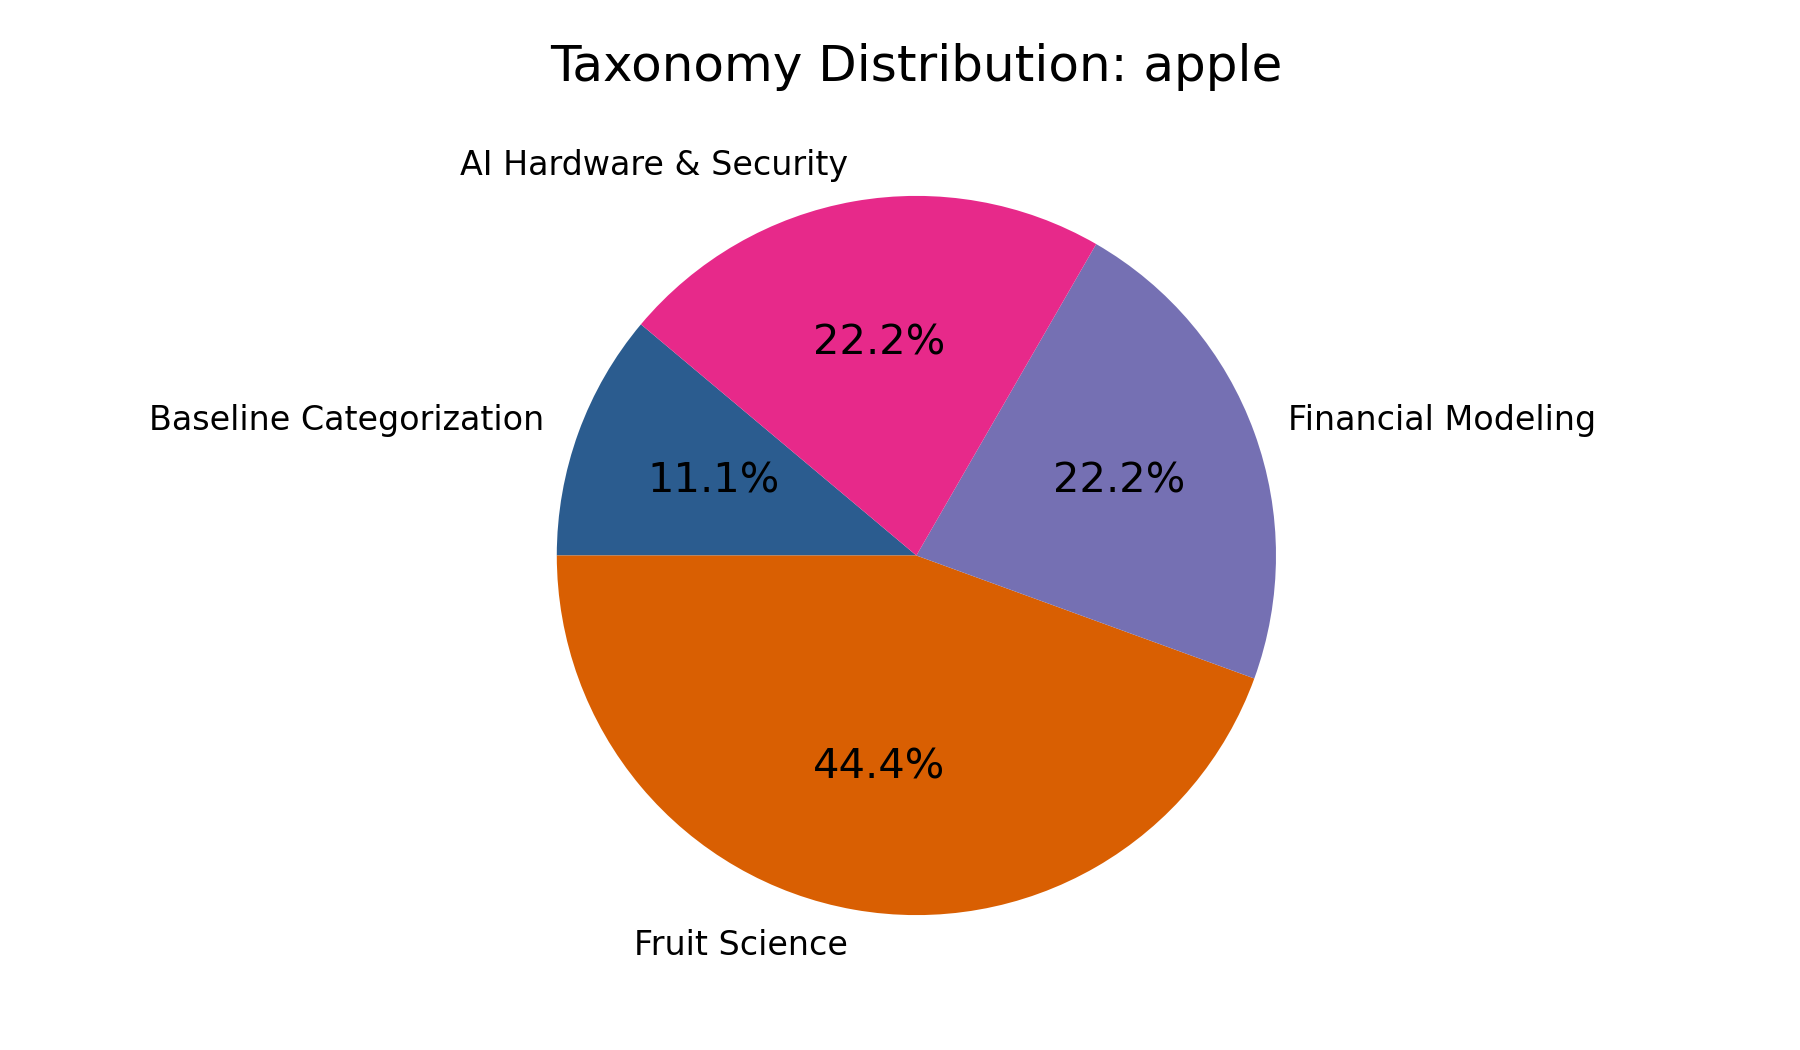
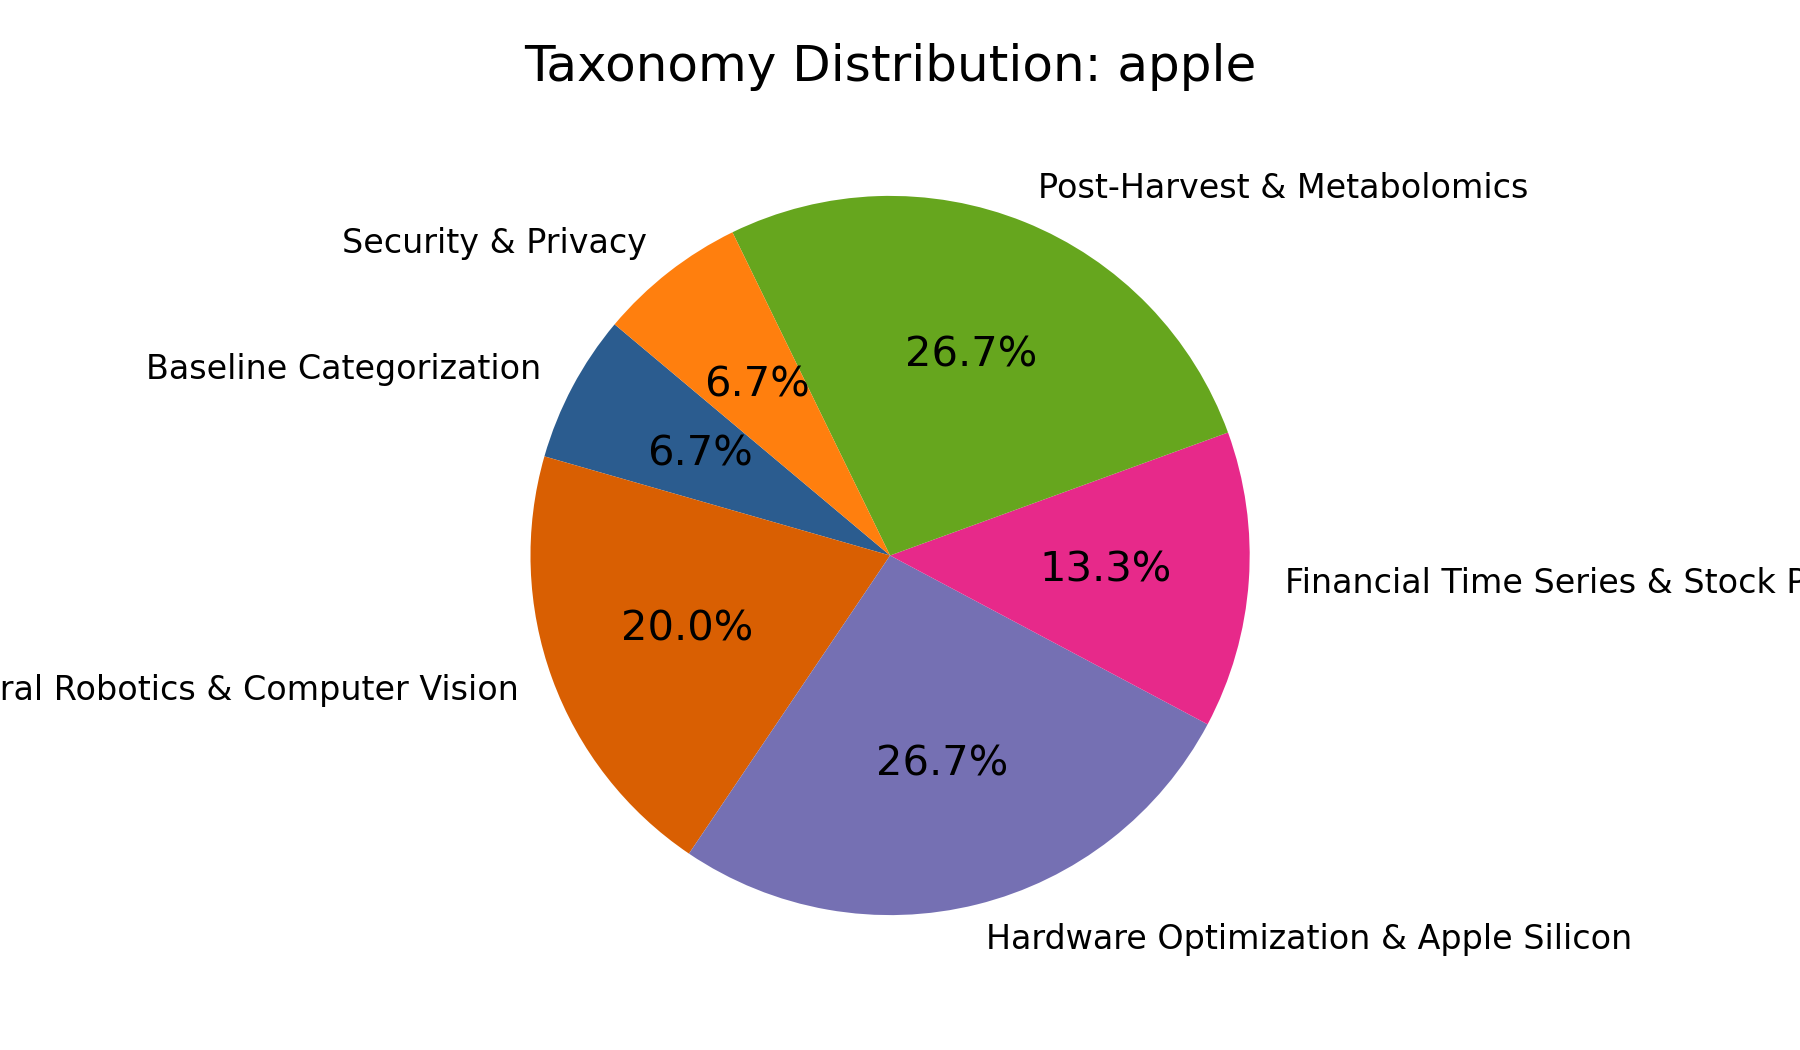
feat(apple): integrated valid papers (LSS: 73.55)

Changed region(s): [[0.0, 0.1524, 1.0, 0.9143], [0.28, 0.0305, 0.7156, 0.0914], [0.3422, 0.579, 0.4356, 0.6095]]

diff --git a/surveys/apple/generate_figures.py b/surveys/apple/generate_figures.py
@@ -10,8 +10,8 @@ plt.rcParams.update({'font.size': 10, 'axes.labelsize': 11, 'axes.titlesize': 12
 
 SURVEY_TITLE = "apple"
 # [AI AGENT ZONE] Edit only these dictionaries
-TIMELINE_DATA = {"2024": 0, "2025": 0, "2026": 7, "2028": 1}
-TAXONOMY_DATA = {"Baseline Categorization": 1, "Fruit Science": 4, "Financial Modeling": 2, "AI Hardware & Security": 2}
+TIMELINE_DATA = {"2024": 0, "2025": 0, "2026": 13, "2028": 1}
+TAXONOMY_DATA = {"Baseline Categorization": 1, "Agricultural Robotics & Computer Vision": 3, "Hardware Optimization & Apple Silicon": 4, "Financial Time Series & Stock Prediction": 2, "Post-Harvest & Metabolomics": 4, "Security & Privacy": 1}
 
 def plot_publication_timeline():
     years, counts = list(TIMELINE_DATA.keys()), list(TIMELINE_DATA.values())

diff --git a/surveys/apple/apple.md b/surveys/apple/apple.md
@@ -4,10 +4,22 @@
 
 This document collects the scientific literature regarding **apple**.
 
-## Apple Cultivation and Post-Harvest Science
+## Agricultural Applications & Robotics
 
-Recent research has significantly advanced the understanding of apple physiology and agricultural robotics. Studies on 'Granny Smith' apples demonstrate that the chlorophyll-to-carotenoid ratio serves as a strong non-destructive predictor for sunscald susceptibility, with metabolomic profiling revealing coordinated defense mechanisms against photooxidative stress [^10.7273_000008353]. In parallel, agricultural automation is being refined through multi-functional robotic platforms capable of precise pruning and harvesting in complex orchard environments, utilizing point cloud data to map branch structures and optimize cycle times [^https:__openalex.org_W7204741959]. Furthermore, sustainability initiatives are exploring the valorization of apple co-products; thermomechanical treatments have been shown to effectively functionalize cell wall polysaccharides from apple waste, while fermentation processes using specific bacterial strains successfully convert waste apples into high-value platform chemicals like lactic and succinic acids [^https:__openalex.org_W7206080001][^10.1186_s13068-026-02807-w].
+Recent advancements in computer vision and robotics have significantly improved orchard management and fruit classification. A lightweight multimodal vision-language framework adapted from TinyCLIP has been deployed for fine-grained classification of apple fruitlet anatomy in complex orchard environments, achieving high F1-scores on an NVIDIA T4 GPU and enabling efficient edge deployment via ONNX and TensorRT [^2608.24935]. Similarly, cross-generation optimization of YOLO models (v8, v11, v26) for small-object detection in orchards demonstrates that compact models with small-object-focused training provide favorable accuracy-efficiency trade-offs for robotic perception [^2608.23636]. Robotic manipulation for pruning and harvesting in pome fruit orchards has also seen progress, with an 8 DoF manipulator achieving a 92% success rate at 8.9 seconds per cut, highlighting the potential for multi-functional robotic platforms [^https:__openalex.org_W7204741959].
 
-## Apple Inc. Ecosystem, Finance, and AI Hardware
+Post-harvest quality and metabolic studies continue to refine storage and handling practices. Research on 'Granny Smith' apples reveals that relative sun exposure significantly impacts sunscald susceptibility, peel metabolism, and storage outcomes, with higher exposure leading to elevated soluble solids and increased sunscald incidence over six months of storage [^10.7273_000008353]. Furthermore, upcycling waste apples into platform chemicals like lactic and succinic acids via simplified fermentation processes demonstrates a sustainable approach to valorizing agri-food waste within a circular bioeconomy [^10.1186_s13068-026-02807-w]. Thermomechanical treatments promoting hornification have also been investigated to modify the microstructure and functionalization of cell wall polysaccharides from apple co-products [^https:__openalex.org_W7206080001]. Additionally, studies on custard apple (*Annona squamosa*) varieties highlight the importance of artificial pollination in enhancing fruit set, size, and overall productivity [^10.5281_zenodo.19427432].
 
-The technological and financial dimensions of Apple Inc. continue to attract rigorous academic scrutiny. In financial forecasting, deep learning architectures, particularly Transformers, have demonstrated superior predictive capabilities over traditional statistical models and other machine learning approaches when analyzing Apple's stock price movements [^10.54254_2754-1169_2026.ld36549]. Complementary research highlights the importance of data preparation pipelines, showing that Random Forest regressors trained on properly sourced Yahoo!Finance data can robustly model Apple's stock trends [^10.5281_zenodo.18147252]. On the software and security front, recent investigations have exposed vulnerabilities in Apple Safari's local learning privacy defenses [^10.5281_zenodo.22163943]. Finally, hardware optimization for Apple Silicon remains a critical area of study, with new frameworks like VeloxQuant-MLX enabling fast KV-cache quantization for large language models, achieving up to 16x compression with near-lossless quality directly on Metal kernels [^10.5281_zenodo.20647294].
+## Apple Silicon & Hardware Optimization
+
+The integration of Large Language Models (LLMs) and AI workloads on Apple Silicon has become a focal point for efficiency and performance benchmarking. The GreenBench framework evaluates LLM inference on Apple M4 Pro hardware, revealing that unified memory architecture enables 30-40x better energy efficiency per token compared to datacenter GPUs, with smaller models delivering higher throughput and lower energy consumption [^2608.28667]. Measurement studies on the Apple Neural Engine (ANE) clarify that model placement and decode speed are heavily dependent on operator expression and weight encoding, with quantized models (int8, 2-bit) significantly improving accelerator residency and inference speed compared to fp16 designs [^2608.22110]. 
+
+Software optimization tools continue to evolve for this ecosystem. VeloxQuant-MLX introduces fast KV-cache quantization methods for Apple Silicon (MLX), compressing Key/Value caches up to 16x with near-lossless quality via Metal kernels [^10.5281_zenodo.20647294]. Additionally, standalone executables for scientific tools like the GSL & Ceramide Transition Generator have been compiled specifically for macOS Apple Silicon, ensuring native performance without requiring Python installations [^10.5281_zenodo.18696019].
+
+## Financial Markets & Stock Prediction
+
+Apple Inc. remains a primary subject in financial time series modeling and machine learning applications. Comparative analyses of forecasting models (ARIMA, XGBoost, LSTM, Transformer) applied to Apple Inc. (AAPL) stock data demonstrate that deep learning approaches, particularly Transformers, achieve lower prediction errors and superior trend fitting compared to traditional statistical methods [^10.54254_2754-1169_2026.ld36549]. Structured pipelines utilizing API-based market data and open ML datasets have been developed to support stochastic time series modeling, with Random Forest regressors showing robust performance in Apple stock price modeling tasks [^10.5281_zenodo.18147252].
+
+## Security & Software Ecosystem
+
+Privacy and security within the Apple software ecosystem are actively researched. A recent study analyzing Apple Safari's privacy defenses exposes vulnerabilities in local learning mechanisms, highlighting the risks associated with on-device data processing and the need for robust privacy-preserving architectures [^10.5281_zenodo.22163943].
